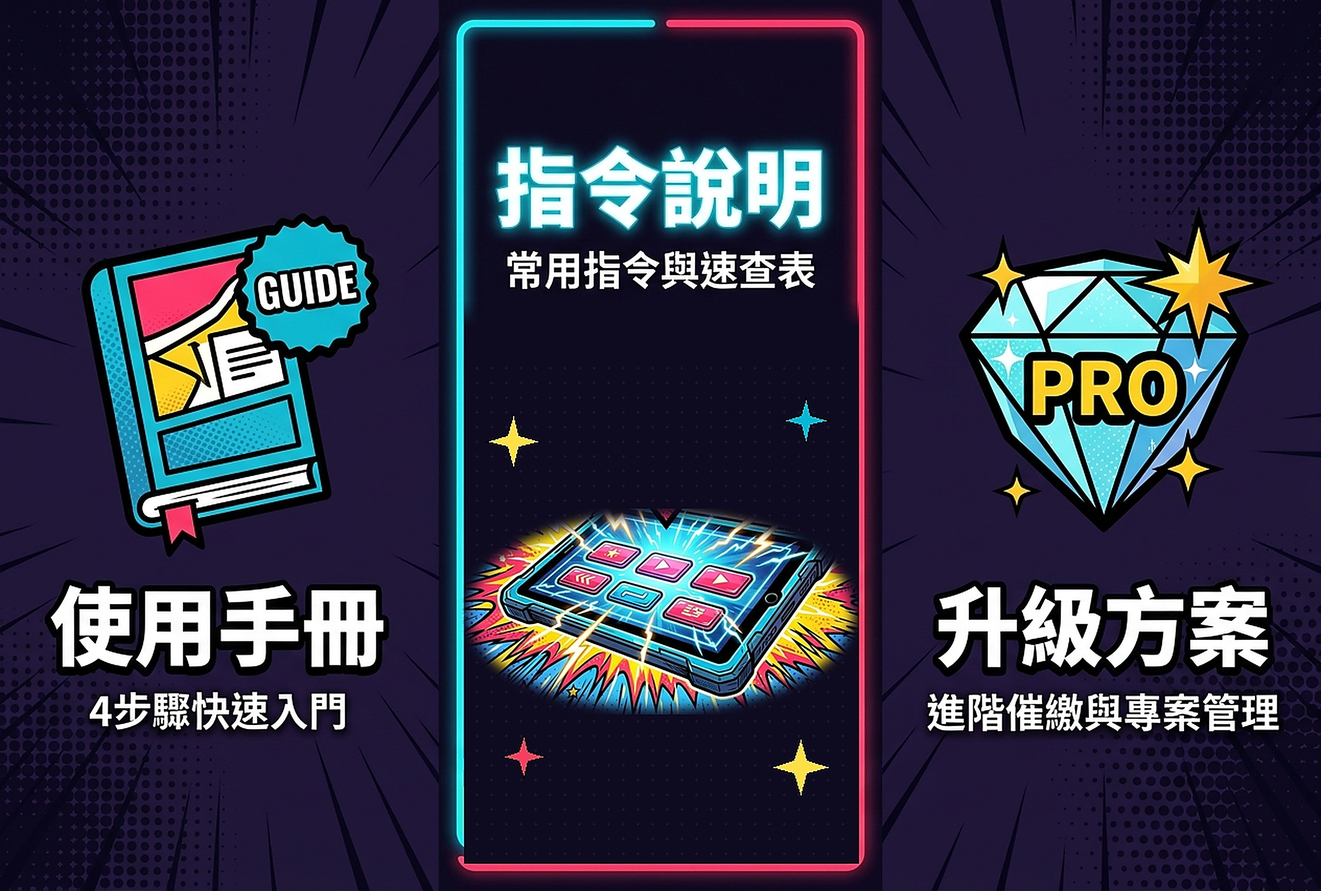
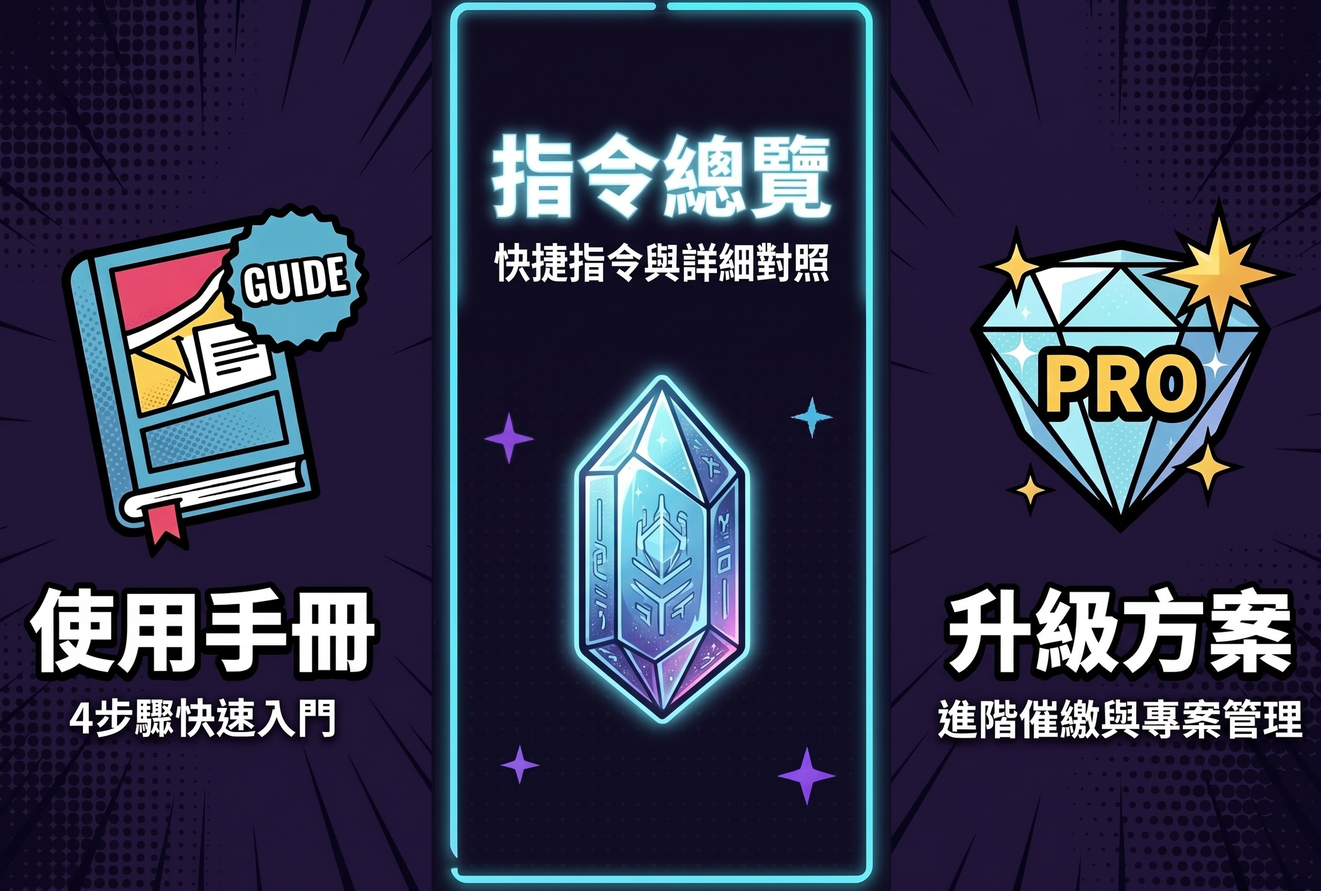
feat: 全面套用用戶新增之全新 Rich Menu 圖檔並上傳至 LINE 設為預設選單

diff --git a/app/main.py b/app/main.py
@@ -51,9 +51,9 @@ def health_check():
 @app.get("/version")
 def get_version():
     return {
-        "version": "1.9.13",
-        "build": "upgrade-plan-student-pricing",
-        "description": "升級方案全面落實學生定價模式：NT$49專案包（手搖價）、NT$99學期Pass（便當價）"
+        "version": "1.9.14",
+        "build": "new-richmenu-applied",
+        "description": "全面套用用戶新增之高解析度 Rich Menu 圖文選單並上傳設為全體預設"
     }
 
 
